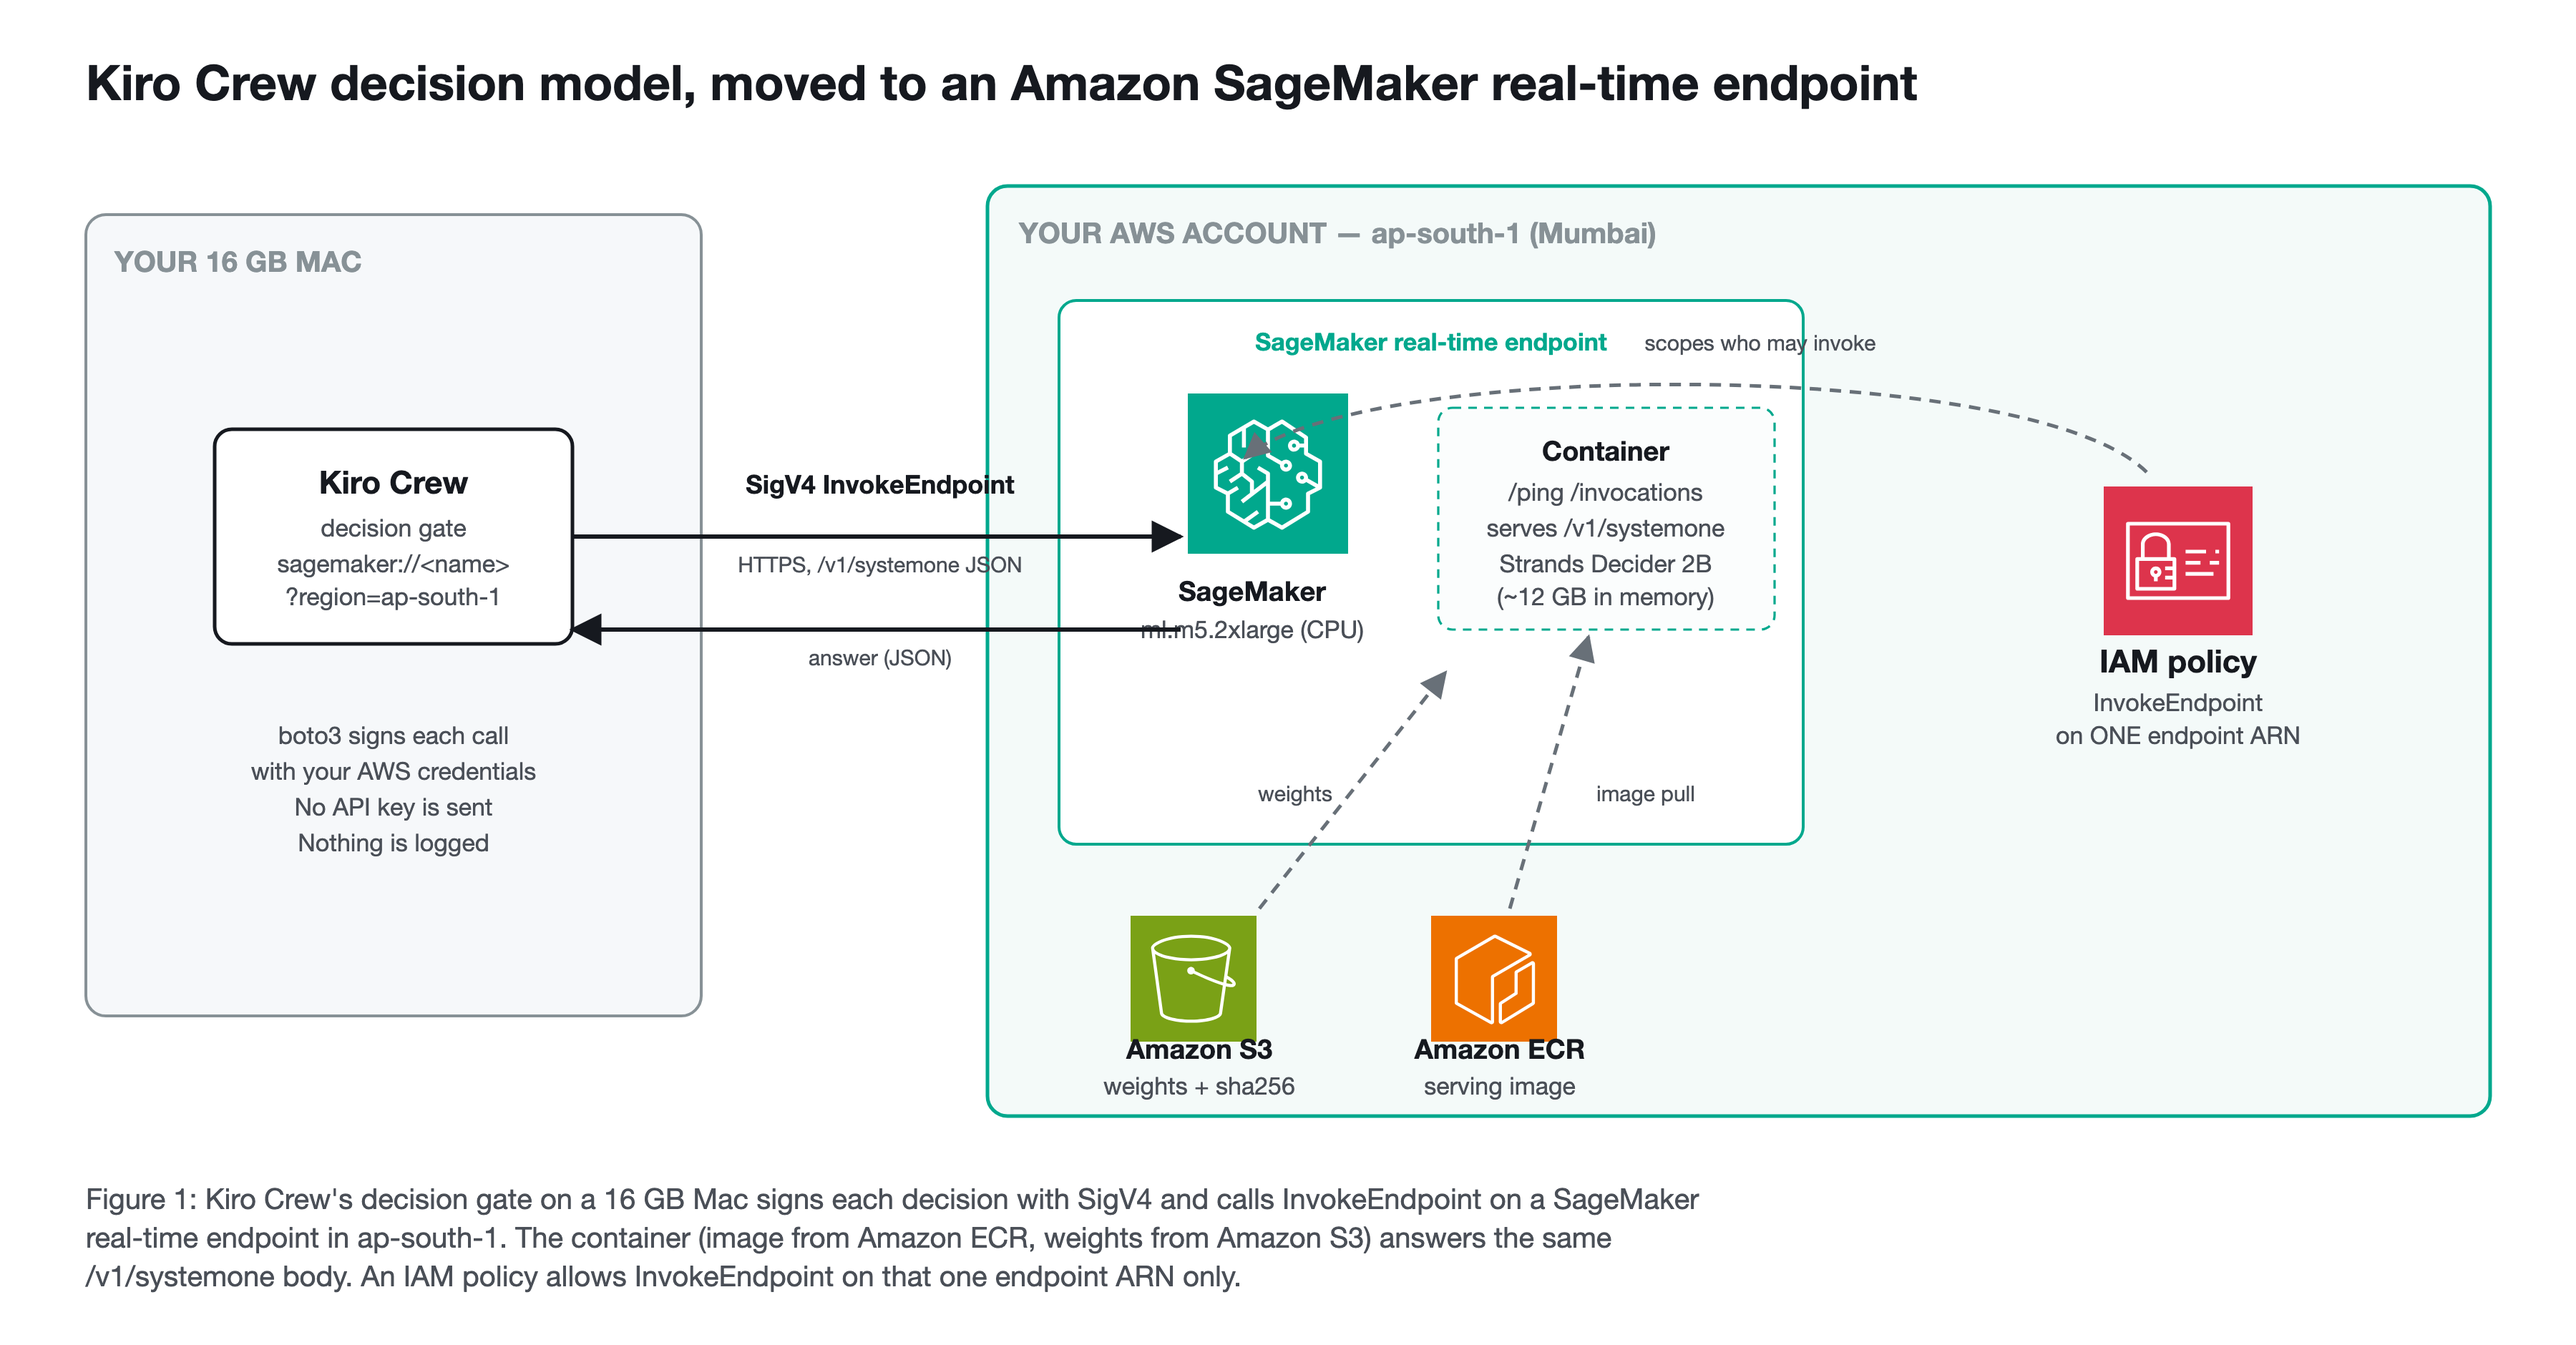
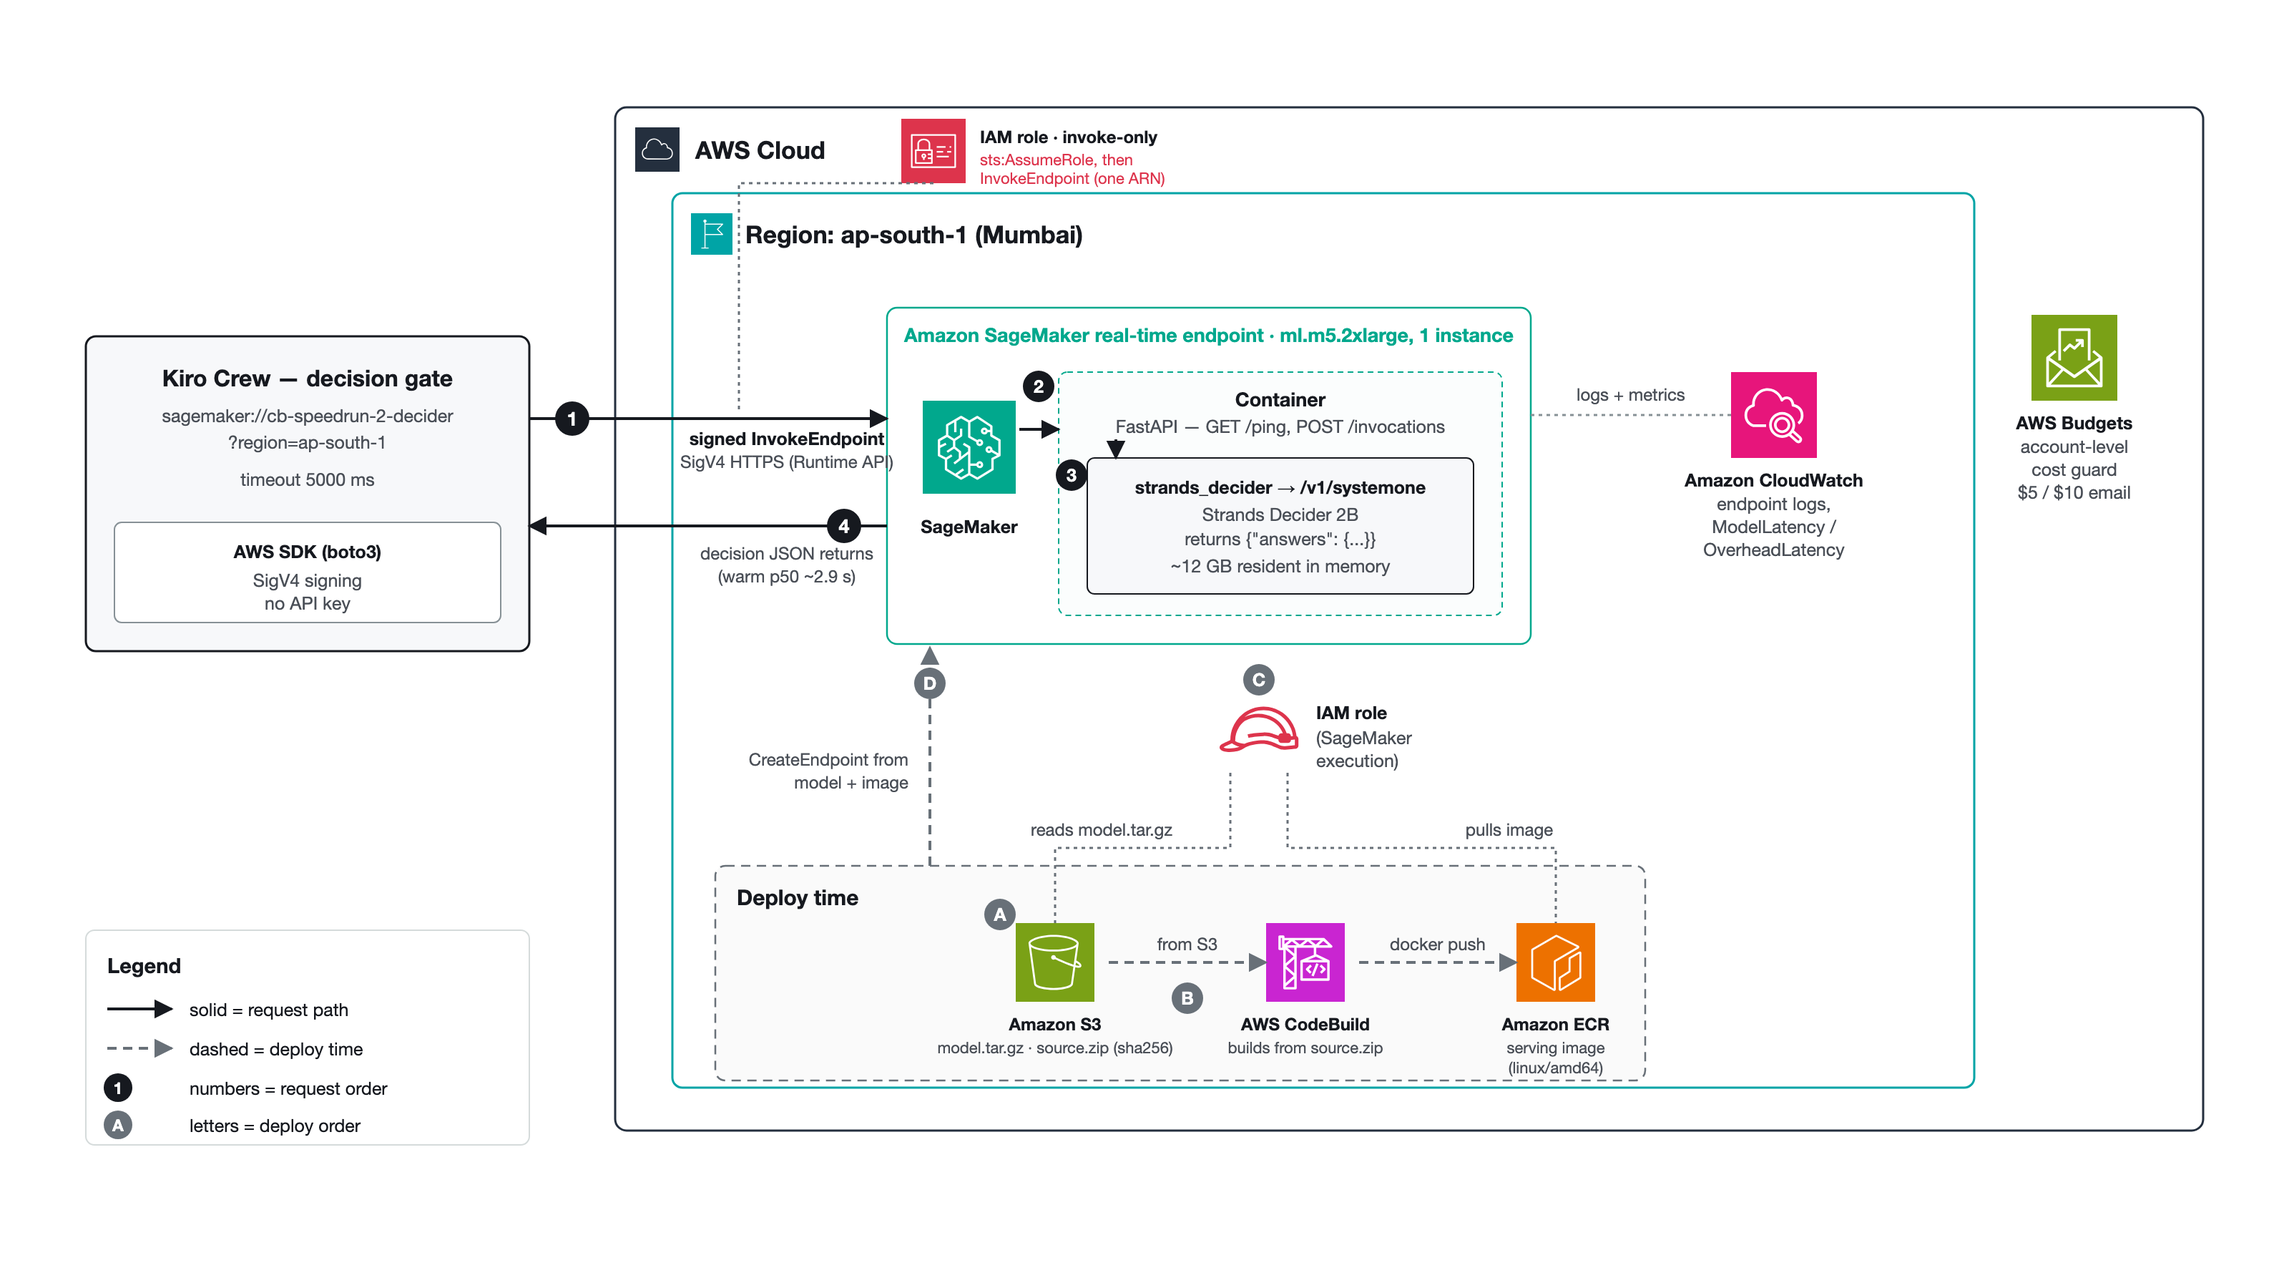
Accuracy pass: gateway decision not yet routed (consent bound to Jev); explicit set-then-consent order; real latency breakdown, payload sweep, concurrency, $0.63 cost; diagram v3; service-role ARN gotcha

diff --git a/README.md b/README.md
@@ -48,10 +48,21 @@ LICENSE             MIT (author: S Logesh)
 
 ![Kiro Crew decision model on a SageMaker real-time endpoint](docs/diagram.png)
 
-*Kiro Crew's decision gate signs each decision with SigV4 and calls
-`InvokeEndpoint` on a SageMaker real-time endpoint in your account. The container
-(image from Amazon ECR, weights from Amazon S3) answers the same `/v1/systemone`
-body. An IAM policy allows `InvokeEndpoint` on that one endpoint ARN only.*
+*At request time (solid, 1–4), Kiro Crew's decision gate on the developer's Mac —
+signing each call with SigV4 through the AWS SDK (boto3), no API key — makes a
+signed `InvokeEndpoint` call (1) to the Amazon SageMaker real-time endpoint
+(`ml.m5.2xlarge`, 1 instance) in ap-south-1, which routes to the container (2)
+whose FastAPI `/invocations` hands off to the in-container `strands_decider`
+`/v1/systemone` model (3, Strands Decider 2B, ~12 GB resident) and returns the
+decision JSON (4, warm p50 ~2.9 s), scoped by a global invoke-only IAM role the
+caller assumes (`sts:AssumeRole`, then `InvokeEndpoint` on one endpoint ARN). At
+deploy time (dashed, A–D), the pinned sha256-verified weights are packaged as
+`model.tar.gz` into Amazon S3 (A) and `source.zip` is built by AWS CodeBuild into
+an image pushed to Amazon ECR (B); the SageMaker execution IAM role (C) reads the
+model from S3 and pulls the image from ECR, and CreateEndpoint (D) stands the
+endpoint up from that model and image — with Amazon CloudWatch collecting endpoint
+logs and ModelLatency/OverheadLatency, and an account-level AWS Budget sending
+$5/$10 email alerts.*
 
 ```
                  build time                          serve time
@@ -117,33 +128,75 @@ never pay for an endpoint before the image and weights exist.
 ## Results
 
 Measured on a real deployment in `ap-south-1` on an `ml.m5.2xlarge` endpoint
-(2026-11-09). The endpoint was torn down right after — these are the numbers you
-should expect to reproduce, not a live service.
+(1 instance), called from a Mac in India (2026-11-09). The endpoint was torn down
+right after — these are numbers to expect when you reproduce, not a live service.
+
+**What is proven:** **37 signed `InvokeEndpoint` calls** (a smoke call, a 35-call
+benchmark, and the invoke-proof) completed with **0 errors**, each carrying Kiro
+Crew's exact `/v1/systemone` body and returning a valid answer. A sample answer
+came back with a full probability distribution — e.g. `action: "hold"` with
+`{merge: 0.14, hold: 0.43, request_changes: 0.43}`, plus `noul` and `score`
+answers. The least-privilege invoke-only role was proven end to end:
+`InvokeEndpoint` **succeeded** under the assumed role while `DescribeEndpoint` was
+**denied**, exactly as scoped.
+
+**Not proven:** a decision routed *through the Kiro Crew gateway* to this endpoint
+— see [Troubleshooting](#troubleshooting) (the consent bound to the Jev default
+URL, so the gateway's decision failed `provider` in 2 ms and CloudWatch recorded
+**zero** invocations from it). Everything above is direct, signed boto3 calls.
+
+### Latency (35 calls, 0 errors)
 
 | Metric | Value |
 |---|---|
-| Invocations / errors | **35 / 0** |
-| Request / response body | **660 B / 492 B** |
-| Cold start (1st call) | **~3019 ms** |
-| Warm p50 | **2894 ms** |
-| Warm p90 | **2933 ms** |
-| Warm p99 | **3031 ms** |
+| Request / response body | 660 B / 492 B |
+| Cold start (1st call) | ~3019 ms |
+| Warm p50 / p90 / p99 | **2894 / 2933 / 3031 ms** |
 | Warm mean (34 calls) | 2903 ms |
-| Input / output tokens (1st answer) | 232 / 3 |
 
-A sample answer to the `verify.py` body (a choice question) came back with a
-full probability distribution — e.g. `action: "hold"` with
-`{merge: 0.14, hold: 0.43, request_changes: 0.43}`, plus `noul` and `score`
-answers — confirming the endpoint speaks Kiro Crew's exact `/v1/systemone`
-protocol. The least-privilege invoke-only role was proven end to end:
-`InvokeEndpoint` **succeeded** under the assumed role while `DescribeEndpoint`
-was **denied**, exactly as scoped.
+A 30-call warm window cross-checked against CloudWatch breaks the ~2.8 s round
+trip down: **ModelLatency ~2139 ms** (container compute) + **OverheadLatency
+~5 ms** (SageMaker) + **~620 ms** network India↔ap-south-1. Run it from the same
+region to cut the network leg.
 
-> **Cost of this run:** the endpoint existed for well under an hour (one smoke
-> call, the 35-call benchmark, and the invoke-proof — 37 `InvokeEndpoint` calls
-> total per CloudWatch), so at **$0.485/hr** the hosting cost was **under $1**.
-> The $10 monthly Budget guarded it. Left running, the same endpoint is ~$354/mo
-> (see [Cost](#cost)) — which is why `cleanup.sh` runs at the end.
+### Latency follows the number of questions (payload sweep, 15 calls each)
+
+| Request size | p50 |
+|---|---|
+| 220 B | 893 ms |
+| 655 B | 2937 ms |
+| 3155 B | 8917 ms |
+
+Bigger bodies mean more questions in one call, and the CPU model answers them
+in sequence — so latency scales with question count, not just bytes.
+
+### The container serializes requests — scale with instances, not concurrency
+
+40 calls at each concurrency level, **0 errors** throughout, but throughput is
+flat while p50 climbs linearly:
+
+| Concurrent callers | Throughput | p50 |
+|---|---|---|
+| 1 | 0.36 req/s | 2.8 s |
+| 2 | 0.38 req/s | 5.3 s |
+| 4 | 0.28 req/s | 14.4 s |
+| 8 | 0.29 req/s | 27.2 s |
+
+One `ml.m5.2xlarge` handles ~0.3–0.4 req/s regardless of how many callers pile
+on; extra callers just queue. To serve more, add instances (raise
+`InitialInstanceCount` / use autoscaling), don't push concurrency at one instance.
+
+### Cost of this run
+
+| Item | Duration | Cost |
+|---|---|---|
+| Endpoint (attempt 1 broken image + attempt 2 working) | 74.2 min = **1.236 hr** × $0.485 | **$0.60** |
+| CodeBuild (2 builds, `GENERAL1_SMALL`) | ~5 min | ~$0.03 |
+| S3 / ECR storage | — | <$0.01 |
+| **Total** | | **≈ $0.63** |
+
+The $10 monthly Budget guarded it. Left running, the same endpoint is ~$354/mo
+(see [Cost](#cost)) — which is why `cleanup.sh` runs at the end.
 
 ## What CloudFormation creates
 
@@ -204,12 +257,19 @@ hard stop — AWS Budgets **alert**, they do not cap spend, so tear down promptl
   on the hard tier (measured on one 10-core CPU host — a measurement, not a
   guarantee). It is a smaller model; expect it to miss some decisions Jev gets.
 - **Latency.** CPU inference of a 2B model is **seconds, not milliseconds** — this
-  deployment measured warm **p50 2894 ms / p90 2933 ms / p99 3031 ms** and a
-  ~3019 ms cold start (`benchmark.py`, 35 calls, 0 errors). That is fine for Kiro
-  Crew's decision cadence but not for interactive per-token use. It also exceeds
-  Kiro Crew's **default 1000 ms decision timeout**, so raise
+  deployment measured warm **p50 2894 / p90 2933 / p99 3031 ms** and a ~3019 ms
+  cold start (35 calls, 0 errors). The round trip breaks down as ~2139 ms container
+  compute + ~5 ms SageMaker overhead + ~620 ms network from India; latency also
+  scales with the number of questions in the body (220 B → ~0.9 s, 3155 B →
+  ~8.9 s). Fine for Kiro Crew's decision cadence, not for interactive per-token
+  use. It also exceeds Kiro Crew's **default 1000 ms decision timeout**, so raise
   `decisions.provider.timeout_ms` to ~5000 before routing live decisions (see
   Troubleshooting).
+- **One instance serializes requests.** A single `ml.m5.2xlarge` sustains only
+  ~0.3–0.4 req/s; concurrent callers queue rather than parallelize (p50 rose
+  2.8 s → 27 s from 1 → 8 callers, throughput flat, 0 errors). Scale out with more
+  instances (`InitialInstanceCount` / autoscaling), not more concurrency per
+  instance.
 - **Request size.** SageMaker real-time refuses a body over ~25 MB (Kiro Crew
   enforces a 25 MB client cap), which matters only for image/Box decisions.
 - **Null rubrics.** Kiro Crew may send an option rubric as JSON `null`; the strands
@@ -248,12 +308,27 @@ Real gaps hit while deploying and verifying this, and how each was fixed:
   consent card in the dashboard**, not by `config.json`. If the card was turned on
   while the endpoint was still the Jev default (`https://api.typesafe.ai/...`), the
   running gateway's consent keystone wins and overrides a `kirocrew config set
-  ... sagemaker://...`. Symptom in `~/.kiro/crew/decisions/decisions-<date>.jsonl`:
-  a decision line with `error: "provider"` and `latency_ms: 2` (a real SageMaker
-  call measures ~2900 ms and generates a CloudWatch `Invocations` data point — the
-  2 ms failure generates none). Fix: set the `sagemaker://` URL, then grant consent
-  for **that** endpoint string in the dashboard card. A `config set` alone cannot
-  grant it.
+  ... sagemaker://...`. That is exactly what happened on the author's run: the
+  gateway decision fired (`point: skills.select`) but failed `error: "provider"`
+  with `latency_ms: 2`, and CloudWatch recorded **zero** invocations from it — the
+  call never reached the endpoint. **Do it in this order:**
+  1. `kirocrew config set decisions.provider.endpoint "sagemaker://<name>?region=<r>"`
+  2. `kirocrew config set decisions.provider.timeout_ms 5000`
+  3. **then** grant Decisions consent in the dashboard card, so consent binds to
+     the `sagemaker://` URL (not to the Jev default).
+  4. Trigger a decision and check the newest
+     `~/.kiro/crew/decisions/decisions-YYYYMMDD.jsonl` line for `latency_ms` in the
+     **thousands** and **no `error` field** — that is the signal the endpoint
+     answered. *(This gateway-routed step is not yet verified by the author; the
+     endpoint itself is proven by 37 direct signed `InvokeEndpoint` calls.)*
+- **`CreateModel` fails with a misleading "role is invalid".** A SageMaker
+  execution role created in the console often carries the IAM path
+  `/service-role/`, so its real ARN is
+  `arn:aws:iam::<account>:role/service-role/<RoleName>` — the no-path
+  `.../role/<RoleName>` ARN is rejected. Get the exact ARN with
+  `aws iam get-role --role-name <RoleName> --query Role.Arn`. (The CloudFormation
+  template here creates its own exec role without that path, so this bites only
+  when you reuse a console-made role.)
 - **GPU instance type rejected at endpoint creation.** `ml.g4dn.xlarge` endpoint
   usage is often quota 0 on a new account — request a quota increase first, or stay
   on `ml.m5.2xlarge`.

diff --git a/scripts/connect_kiro_crew.md b/scripts/connect_kiro_crew.md
@@ -18,7 +18,12 @@ Write the three values down. The default endpoint is the hosted Jev service
 (`https://api.typesafe.ai/v1/systemone`, model `jev-latest`); pointing at your own
 endpoint replaces it only while you have it set.
 
-## 2. Point Kiro Crew at your endpoint
+## 2. Point Kiro Crew at your endpoint — and raise the timeout — BEFORE consent
+
+Order matters. **Consent binds to whatever endpoint string is set at the moment
+you grant it in the dashboard.** If you grant consent while the endpoint is still
+the Jev default, the running gateway keeps calling Jev and ignores a later
+`config set`. So set the endpoint (and the timeout) *first*, then grant consent.
 
 The endpoint string is exactly (from the stack's `KiroCrewEndpointSetting` output):
 
@@ -33,37 +38,49 @@ accepted.
 ```bash
 kirocrew config set decisions.provider.endpoint "sagemaker://cb-speedrun-2-decider?region=ap-south-1"
 kirocrew config set decisions.provider.model "strands-decider-2b"
+# A real CPU call takes ~2.9 s; the default decision timeout is 1000 ms, so raise it
+# or every decision times out and falls back to Jev:
+kirocrew config set decisions.provider.timeout_ms 5000
 ```
 
 Changing the endpoint name, region or profile **withdraws consent** for the old
 one — Kiro Crew treats each distinct endpoint string as a separate opt-in.
 
-## 3. Turn Decisions on
+## 3. Turn Decisions on, THEN grant consent in the dashboard
 
 ```bash
 kirocrew config set decisions.enabled true
 ```
 
-All five Jev decision switches are off by default. Enabling `decisions.enabled`
-lets Kiro Crew route the decisions you have turned on (model routing, acceptance
-evaluation, etc.) through the endpoint. On a timeout or failure Kiro Crew falls
-back gracefully; scheduled jobs and sub-agents are never routed through it.
+All five Jev decision switches are off by default. Now open the **Decisions
+consent card in the dashboard and grant consent** — with the `sagemaker://` URL
+already set in step 2, consent binds to *that* URL. A `kirocrew config set` alone
+**cannot** grant consent; the dashboard card is the only thing that does, and the
+running gateway's consent keystone wins over config. On a timeout or failure Kiro
+Crew falls back gracefully; scheduled jobs and sub-agents are never routed
+through it.
 
-## 4. Trigger a few decisions, then read the decision log
+## 4. Trigger a decision, then check the decision log
 
 Do something that makes Kiro Crew decide (e.g. ask it to route a task, or run a
-flow that uses acceptance evaluation). Then read the decision log — Kiro Crew
-records each decision (which endpoint answered, latency, outcome) to its gateway
-log:
+flow that uses acceptance evaluation). Then read the newest decision-log line:
 
 ```bash
-# tail the gateway log and look for the decision lines naming your endpoint:
-tail -n 200 ~/.kiro/crew/logs/gateway.log | grep -i -E "decision|sagemaker|systemone"
+tail -n 5 ~/.kiro/crew/decisions/decisions-$(date -u +%Y%m%d).jsonl
 ```
 
-(If your install logs elsewhere, use the Decisions view in the dashboard, or
-`kirocrew logs` for the gateway stream.) You should see the decision routed to
-`cb-speedrun-2-decider`, not to `api.typesafe.ai`.
+A decision that actually reached your endpoint shows **`latency_ms` in the
+thousands** (a real SageMaker call measures ~2900 ms) and **no `error` field**. If
+you instead see `error: "provider"` with `latency_ms: 2`, consent is still bound
+to the Jev default — re-check step 2/3 order. You can cross-check with CloudWatch
+(`AWS/SageMaker` → `Invocations`, `EndpointName=<name>`): a routed decision adds a
+data point; a 2 ms failure adds none.
+
+> **Not yet verified by the author.** On the author's run the endpoint itself was
+> proven by 37 direct signed `InvokeEndpoint` calls, but the *gateway-routed*
+> decision had not yet landed on the endpoint (consent had bound to the Jev URL).
+> The steps above are the fix to try; confirm the thousands-ms, no-error log line
+> yourself.
 
 ## 5. Restore your original settings
 
